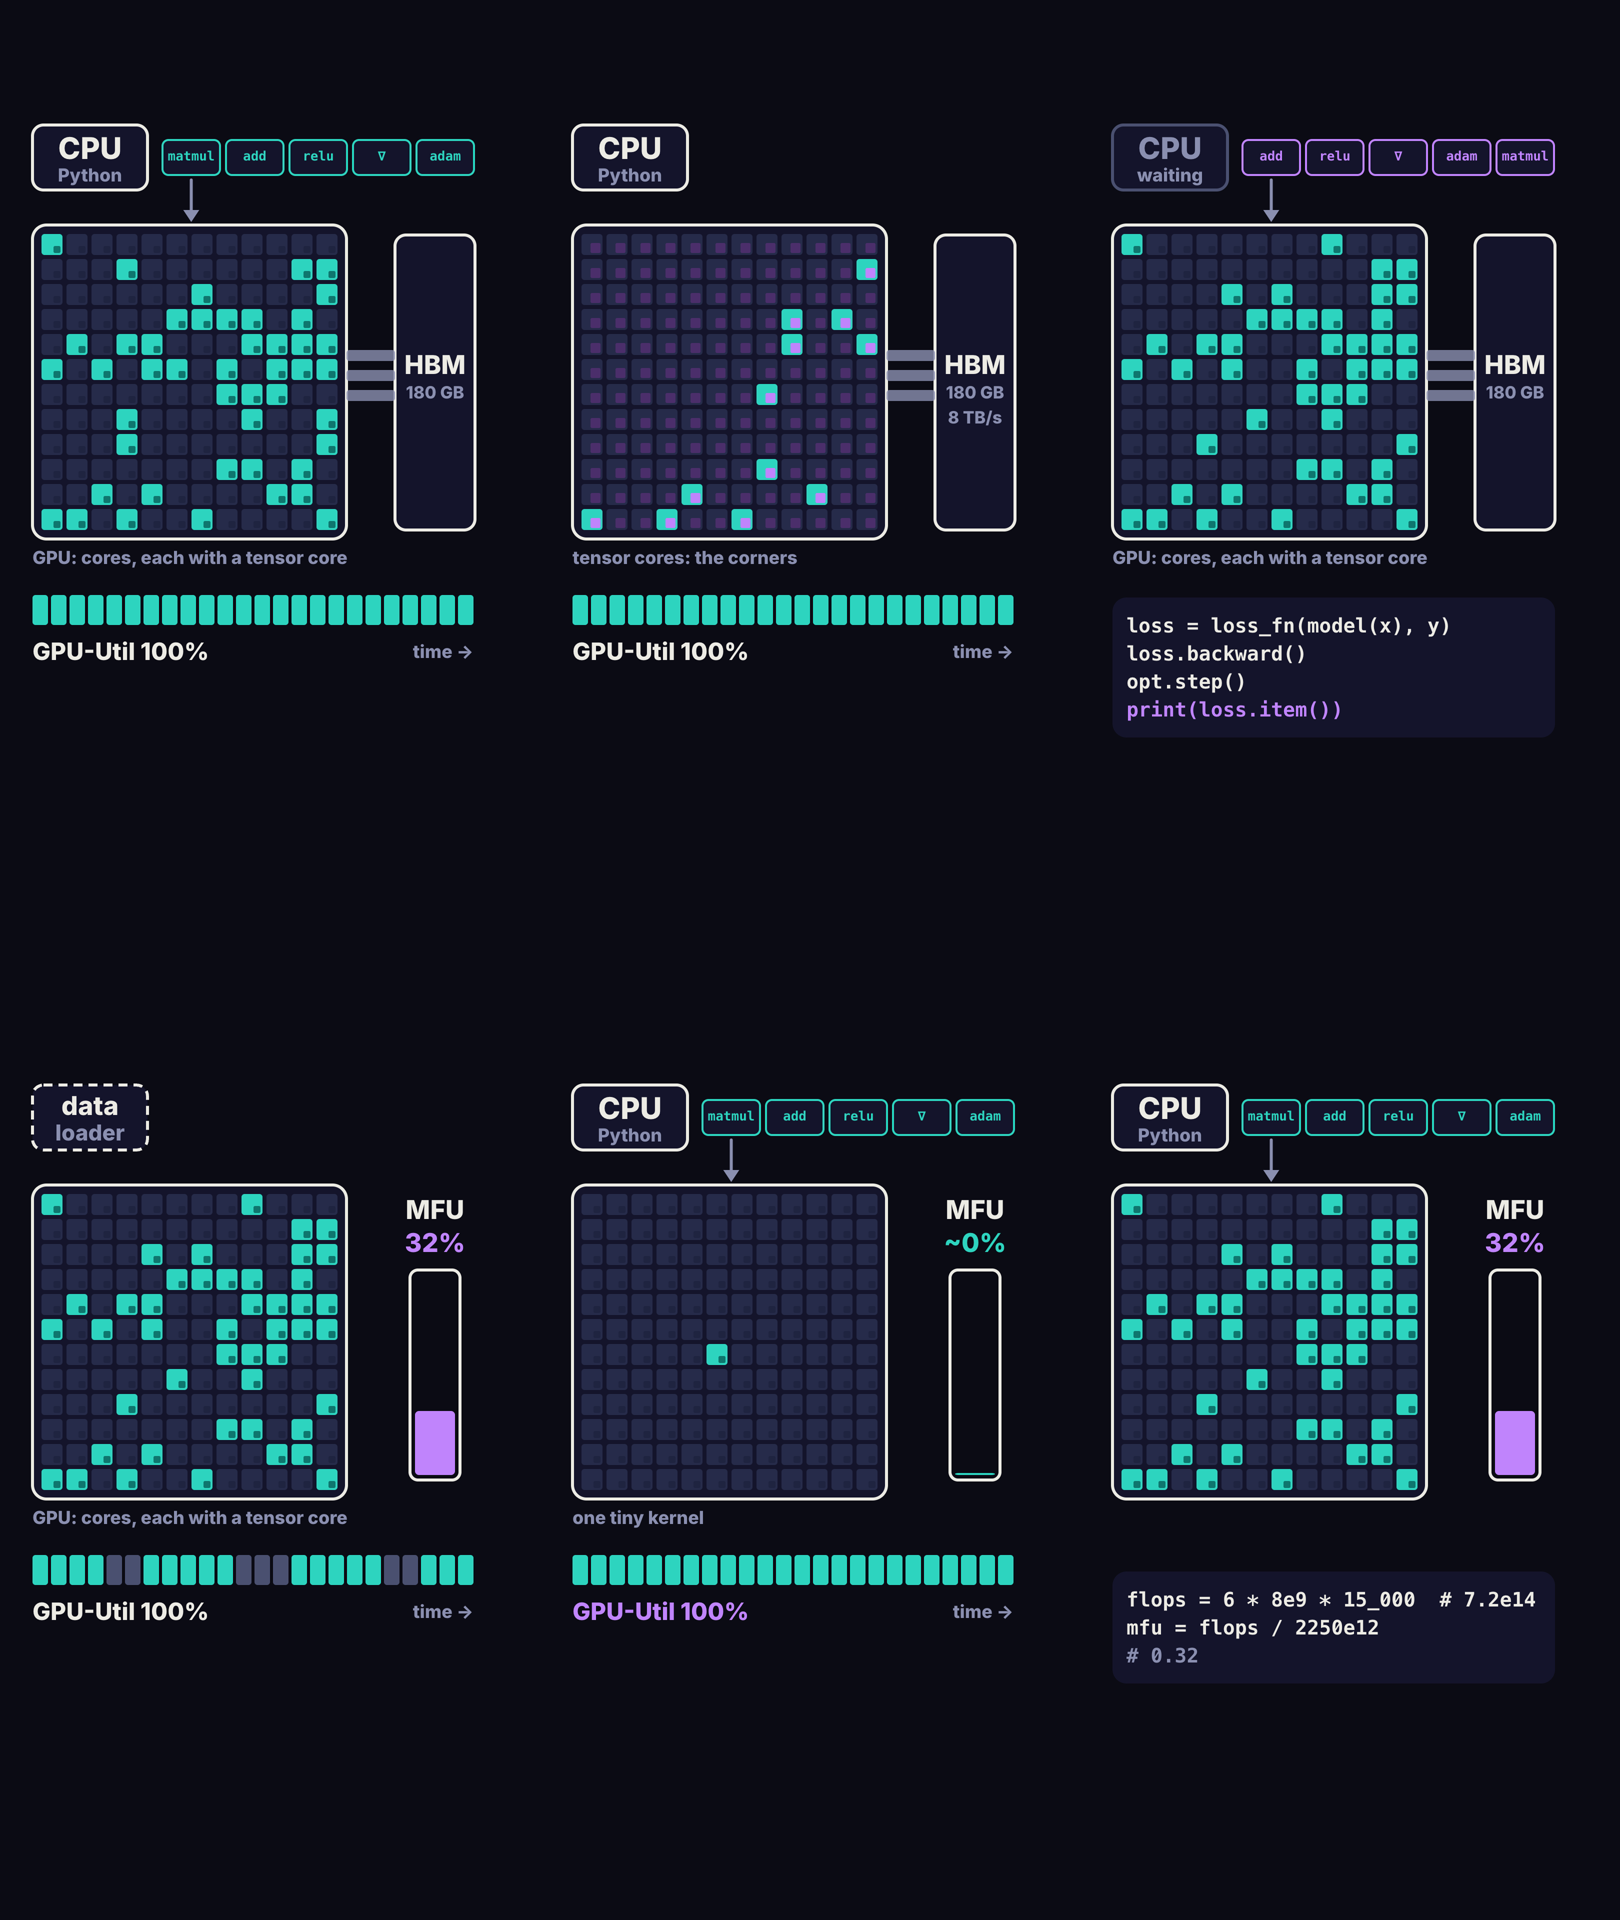
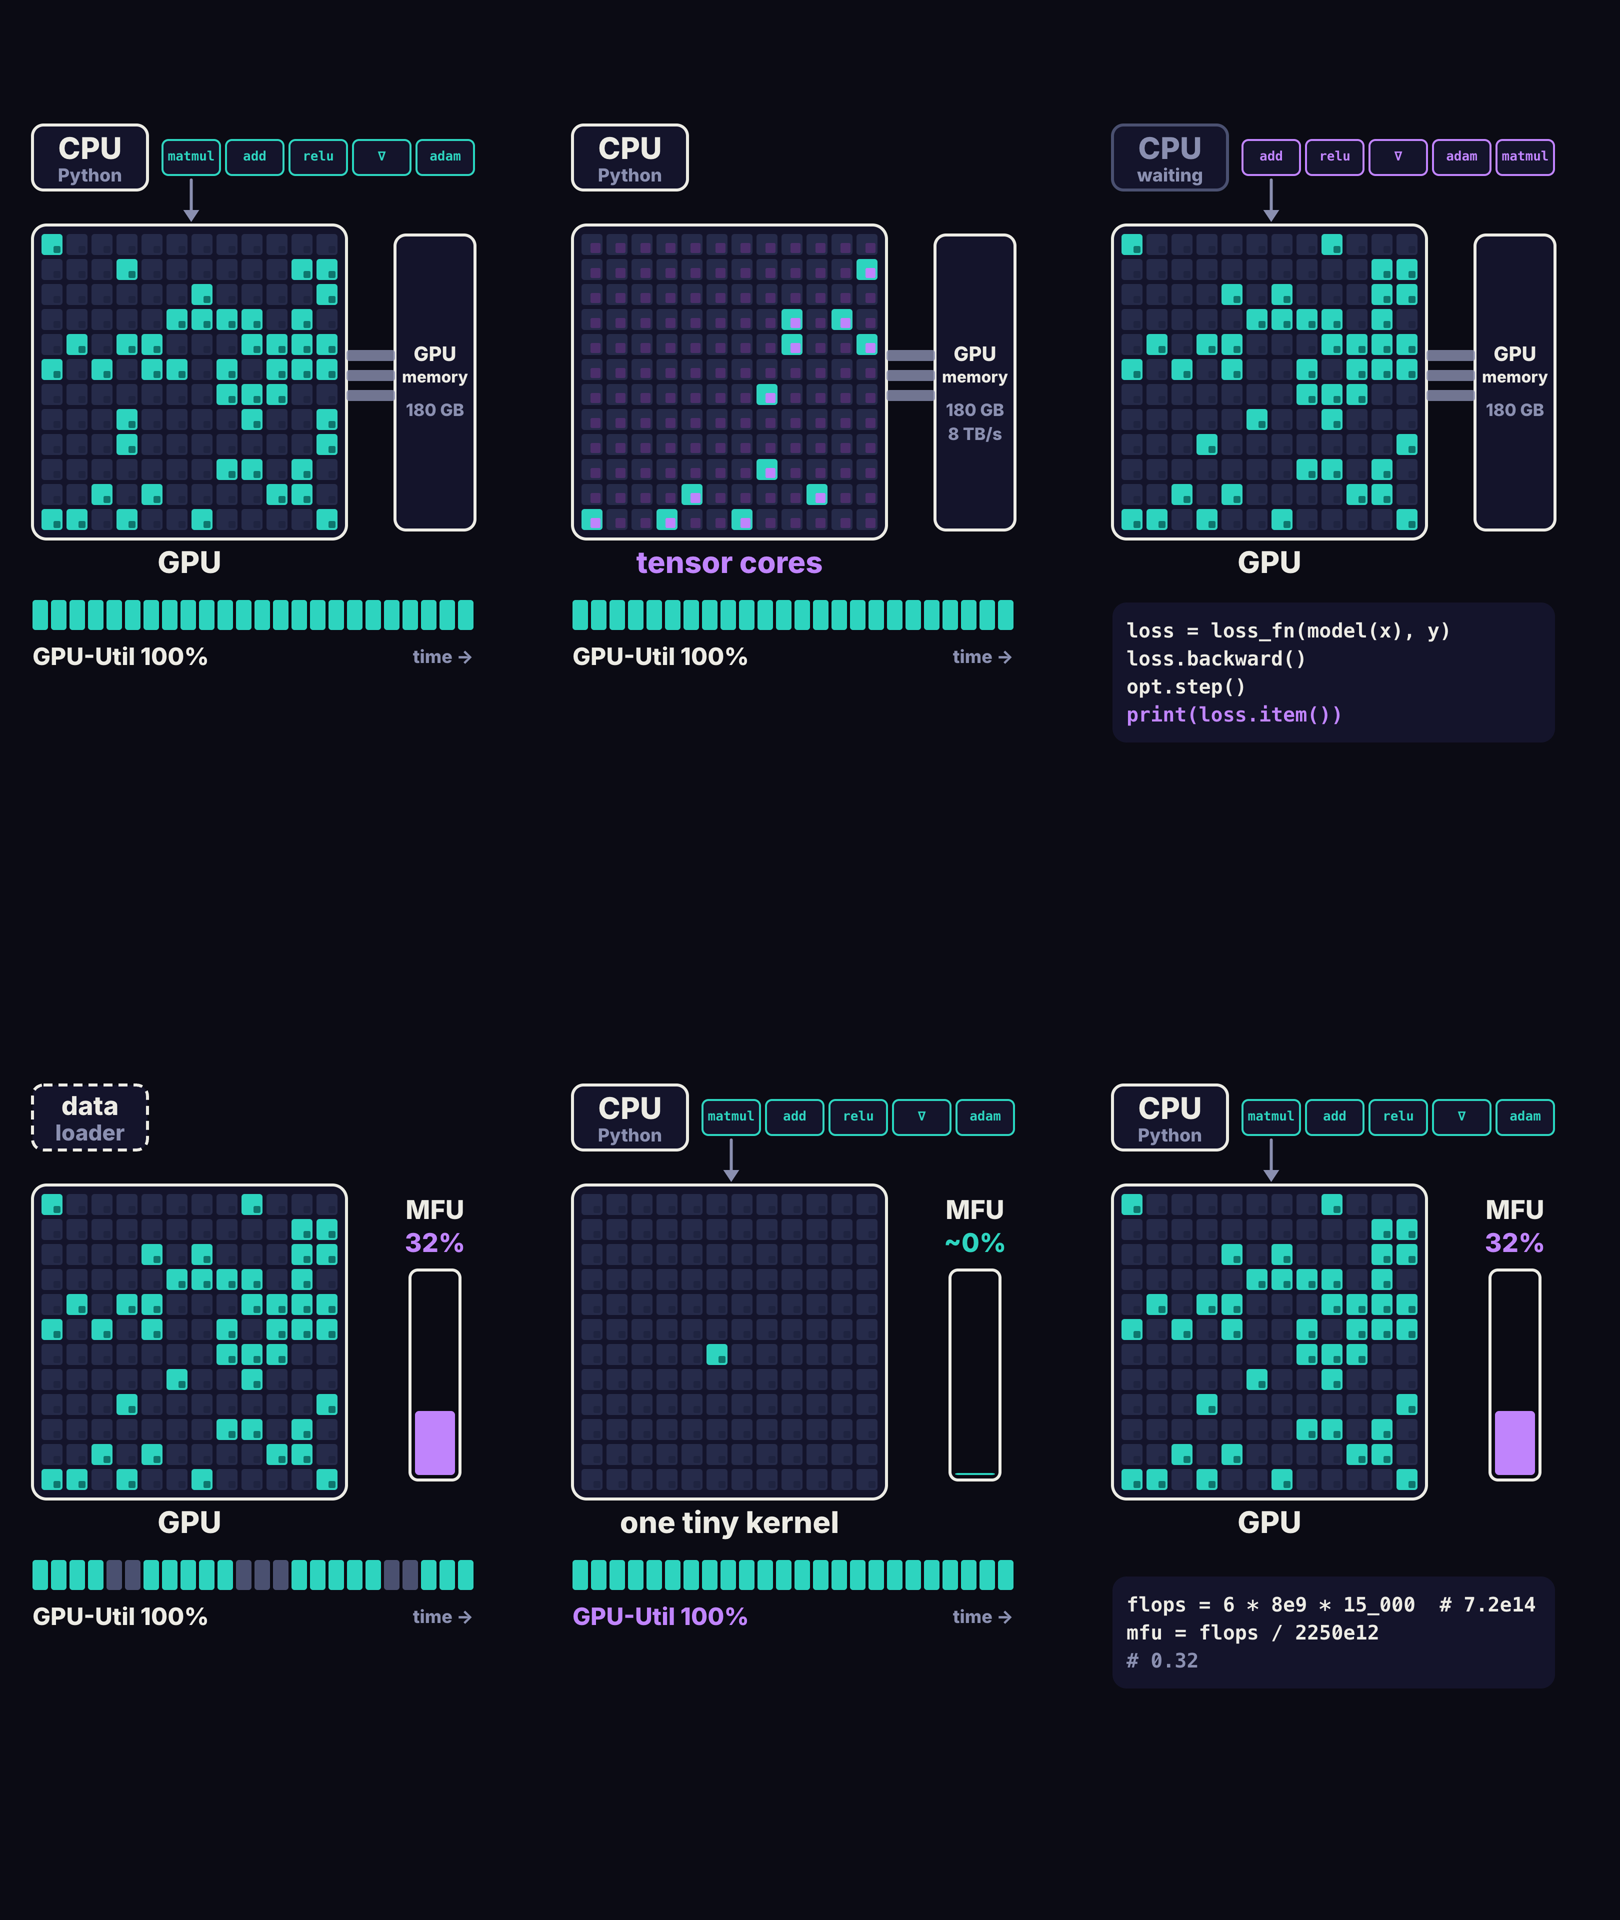
016 kit: bold centred GPU title under the chip; HBM slab says GPU memory
Claude-Session: https://claude.ai/code/session_016u4ZWTe9c5SG8skA7NKj6h

diff --git a/videos/016-understanding-the-gpu/_kit/chip.js b/videos/016-understanding-the-gpu/_kit/chip.js
@@ -19,9 +19,9 @@
 //                             with its tensor core in the bottom-right corner
 //   side slot    y 470–1060   x 790–950: the HBM slab (and the pipe to it, x 693–790),
 //                             or the MFU meter; one at a time
-//   caption      y 1095       one dim line under the chip
-//   bottom slot  y 1150–1536  the time strip (slots 1190–1250; the readout left and
-//                             "time →" right at 1275), or the code card (kit/code.js);
+//   title        y 1090       "GPU", bold and centred under the chip, the CPU label's size
+//   bottom slot  y 1180–1536  the time strip (slots 1200–1260; the readout left and
+//                             "time →" right at 1285), or the code card (kit/code.js);
 //                             one at a time
 //
 // S fields (all optional; SC.REST is the rest state):
@@ -38,7 +38,8 @@
 //   util "…"          the strip's readout (default GPU_DATA.run.util)
 //   mfu 0..1          the meter's fill; mfuText its readout
 //   bw 0|1            "8 TB/s" in the HBM slab
-//   caption "…"       the line under the chip ("" for none)
+//   title "…"         the label under the chip (default "GPU"; a beat may rename it, e.g. "tensor cores";
+//                     it goes magenta with the chip, or with tc when tc is the hero)
 //   cpu, queueO, loader, chip, hbm, meter, strip   opacities (queueO: the queue's)
 //   code {o, lines, typed, lit, cursor, blink, cy}   the code card (kit/code.js)
 (function () {
@@ -58,8 +59,8 @@
     queue: { x: 325, y: 280, w: 115, h: 70, pitch: 127, max: 5 },
     chip: { x: 65, y: 450, pitch: 50, cell: 42, pad: 18 },
     side: { x: 790, y: 470, w: 160, h: 590 },
-    caption: { y: 1095 },
-    strip: { x: 65, y: 1190, h: 60, n: 24, w: 31, pitch: 37, readout: 1275 },
+    title: { y: 1090 },
+    strip: { x: 65, y: 1200, h: 60, n: 24, w: 31, pitch: 37, readout: 1285 },
   };
   G.chip.size = N * G.chip.pitch + G.chip.pad * 2 - 8;                // 628
   G.queue.frontX = G.queue.x + G.queue.w / 2;                         // the arrow into the chip
@@ -140,16 +141,17 @@
       const tc = rect(chipG, x + 24, y + 24, 14, 14, { fill: PAL.grid, rx: 3 });
       cells.push({ body, tc, x, y });
     }
-    const caption = label(root, "", { left: c.x, top: G.caption.y, size: 36, color: PAL.dim });
+    const title = label(root, "", { left: c.x, top: G.title.y, size: 60, width: c.size });
 
     // side slot: HBM and its pipe, or the MFU meter
     const s = G.side;
     const hbmG = node("g", {}, svg);
     const hbmBox = rect(hbmG, s.x, s.y, s.w, s.h, { fill: PAL.panel, stroke: PAL.ink, "stroke-width": 6 });
     const pipe = [0, 1, 2].map((k) => rect(hbmG, c.x + c.size, 700 + k * 40, s.x - c.x - c.size, 22, { fill: PAL.dim, rx: 6, opacity: 0.8 }));
-    const hbmLab = label(root, D.hbm.name, { left: s.x, top: 700, size: 52, width: s.w });
-    const hbmSize = label(root, D.hbm.size, { left: s.x, top: 765, size: 34, width: s.w, color: PAL.dim });
-    const hbmBw = label(root, D.hbm.bw, { left: s.x, top: 815, size: 34, width: s.w, color: PAL.dim });
+    const hbmLab = label(root, D.hbm.name[0], { left: s.x, top: 685, size: 40, width: s.w });
+    const hbmLab2 = label(root, D.hbm.name[1], { left: s.x, top: 735, size: 32, width: s.w });
+    const hbmSize = label(root, D.hbm.size, { left: s.x, top: 800, size: 34, width: s.w, color: PAL.dim });
+    const hbmBw = label(root, D.hbm.bw, { left: s.x, top: 848, size: 34, width: s.w, color: PAL.dim });
     const meterG = node("g", {}, svg);
     const gauge = { x: s.x + 30, y: s.y + 150, w: s.w - 60, h: s.h - 170 };
     const meterBox = rect(meterG, gauge.x, gauge.y, gauge.w, gauge.h, { fill: PAL.bg, stroke: PAL.ink, "stroke-width": 6, rx: 16 });
@@ -212,11 +214,12 @@
         cl.tc.setAttribute("width", 14 + g); cl.tc.setAttribute("height", 14 + g);
         cl.tc.setAttribute("fill", hero === "tc" ? (on ? PAL.hero : "#4B2E6B") : on ? PAL.dataDeep : S.tc > 0.5 ? PAL.muted : PAL.grid);
       });
-      caption.textContent = S.caption; show(caption, S.chip * (S.caption ? 1 : 0));
+      title.textContent = S.title; show(title, S.chip * (S.title ? 1 : 0));
+      title.style.color = hero === "chip" || hero === "tc" ? PAL.hero : PAL.ink;
 
       // side slot
-      show(hbmG, S.hbm); show(hbmLab, S.hbm); show(hbmSize, S.hbm); show(hbmBw, S.hbm * S.bw);
-      hbmBox.setAttribute("stroke", col("hbm", PAL.ink)); hbmLab.style.color = col("hbm", PAL.ink);
+      show(hbmG, S.hbm); show(hbmLab, S.hbm); show(hbmLab2, S.hbm); show(hbmSize, S.hbm); show(hbmBw, S.hbm * S.bw);
+      hbmBox.setAttribute("stroke", col("hbm", PAL.ink)); hbmLab.style.color = hbmLab2.style.color = col("hbm", PAL.ink);
       pipe.forEach((p) => p.setAttribute("fill", col("pipe", PAL.dim)));
       show(meterG, S.meter); show(meterLab, S.meter); show(meterVal, S.meter);
       const fh = (gauge.h - 20) * clamp01(S.mfu);
@@ -236,7 +239,7 @@
   }
 
   const REST = { lit: D.run.mfu, shimmer: 0, one: -1, tc: 0, hero: null, queue: null, drain: 0, cpuWait: 0,
-                 slots: null, util: null, mfu: D.run.mfu, mfuText: null, bw: 0, caption: D.chip.caption,
+                 slots: null, util: null, mfu: D.run.mfu, mfuText: null, bw: 0, title: D.chip.title,
                  cpu: 1, queueO: 1, loader: 0, chip: 1, hbm: 1, meter: 0, strip: 1, code: { o: 0 } };
   // Register the beat: one paused timeline whose only job is to be the clock.
   function start(seconds, render) {

diff --git a/videos/016-understanding-the-gpu/00_layout/index.html b/videos/016-understanding-the-gpu/00_layout/index.html
@@ -38,7 +38,7 @@
     if (t < 2) {
       kit.draw({ shimmer: 1 });
     } else if (t < 4) {
-      kit.draw({ lit: 0.08, tc: 1, hero: "tc", bw: 1, queueO: 0, caption: "tensor cores: the corners" });
+      kit.draw({ lit: 0.08, tc: 1, hero: "tc", bw: 1, queueO: 0, title: "tensor cores" });
     } else if (t < 6) {
       const drain = seg(t, 4.3, 5.3);
       kit.draw({ drain, queue: ["matmul", "add", "relu", "∇", "adam", "matmul"], cpuWait: 1, hero: "queue", strip: 0,
@@ -46,10 +46,10 @@
     } else if (t < 8) {
       kit.draw({ cpu: 0, loader: 1, queueO: 0, hbm: 0, meter: 1, hero: "meter", slots: "111100111110001111100111" });
     } else if (t < 10) {
-      kit.draw({ one: 77, hbm: 0, meter: 1, mfu: 0.01, mfuText: "~0%", hero: "util", caption: "one tiny kernel" });
+      kit.draw({ one: 77, hbm: 0, meter: 1, mfu: 0.01, mfuText: "~0%", hero: "util", title: "one tiny kernel" });
     } else {
       const typed = SC_typedAt(C.mfu, (t - 10) * 2.5);
-      kit.draw({ hbm: 0, meter: 1, hero: "meter", strip: 0, caption: "",
+      kit.draw({ hbm: 0, meter: 1, hero: "meter", strip: 0,
                  code: { o: 1, lines: C.mfu, typed, lit: null, cursor: 1, blink: t } });
     }
   }

diff --git a/videos/016-understanding-the-gpu/_kit/code.js b/videos/016-understanding-the-gpu/_kit/code.js
@@ -5,7 +5,7 @@
 // Loaded after kit/chip.js; chip.js picks it up through window.SC_makeCode and
 // drives it from S.code.
 //
-// Card: x 65–950, centred on y = cy (default 1335: the bottom slot, y 1110–1536,
+// Card: x 65–950, centred on y = cy (default 1345: the bottom slot, y 1180–1536,
 // which the time strip uses when the card is off). 40 px monospace fits 36
 // characters; a longer line shrinks the type for the whole card.
 //
@@ -20,7 +20,7 @@
 //   cy                the card's centre y (default CARD.cy)
 (function () {
   const PAL = { panel: "#14142B", ink: "#ECEBE4", hero: "#C084FC", dim: "#8A8FB0" };
-  const CARD = { x: 65, w: 885, pad: 28, size: 40, rows: 6, cy: 1335, charW: 0.6 };
+  const CARD = { x: 65, w: 885, pad: 28, size: 40, rows: 6, cy: 1345, charW: 0.6 };
   const hash = (n) => { const s = Math.sin(n * 127.1 + 311.7) * 43758.5453; return s - Math.floor(s); };
 
   // How many characters a typist has landed `seconds` after starting (014's typist).

diff --git a/videos/016-understanding-the-gpu/_kit/data.js b/videos/016-understanding-the-gpu/_kit/data.js
@@ -3,10 +3,11 @@
 // never types a new one. Loaded before chip.js.
 window.GPU_DATA = {
   // The chip: a picture, not a count (SERIES.md: the SM count is never stated).
-  chip: { n: 12, caption: "GPU: cores, each with a tensor core" },
+  chip: { n: 12, title: "GPU" },
   // MFU and GPU-Util on the same run (ledger: 720 TFLOPS of 2,250 → 32 %; nvidia-smi 100 %).
   run: { mfu: 0.32, mfuText: "32%", util: "GPU-Util 100%" },
-  hbm: { name: "HBM", size: "180 GB", bw: "8 TB/s" },
+  // HBM (high-bandwidth memory) is the GPU's own memory; the take never says "HBM", so the slab says "GPU memory".
+  hbm: { name: ["GPU", "memory"], size: "180 GB", bw: "8 TB/s" },
   // Kernel tiles in the queue, everywhere (SERIES.md "Kernel-tile labels").
   queue: ["matmul", "add", "relu", "∇", "adam"],
   // Code cards: real lines that run. ≤ 36 characters a line fits the card at
